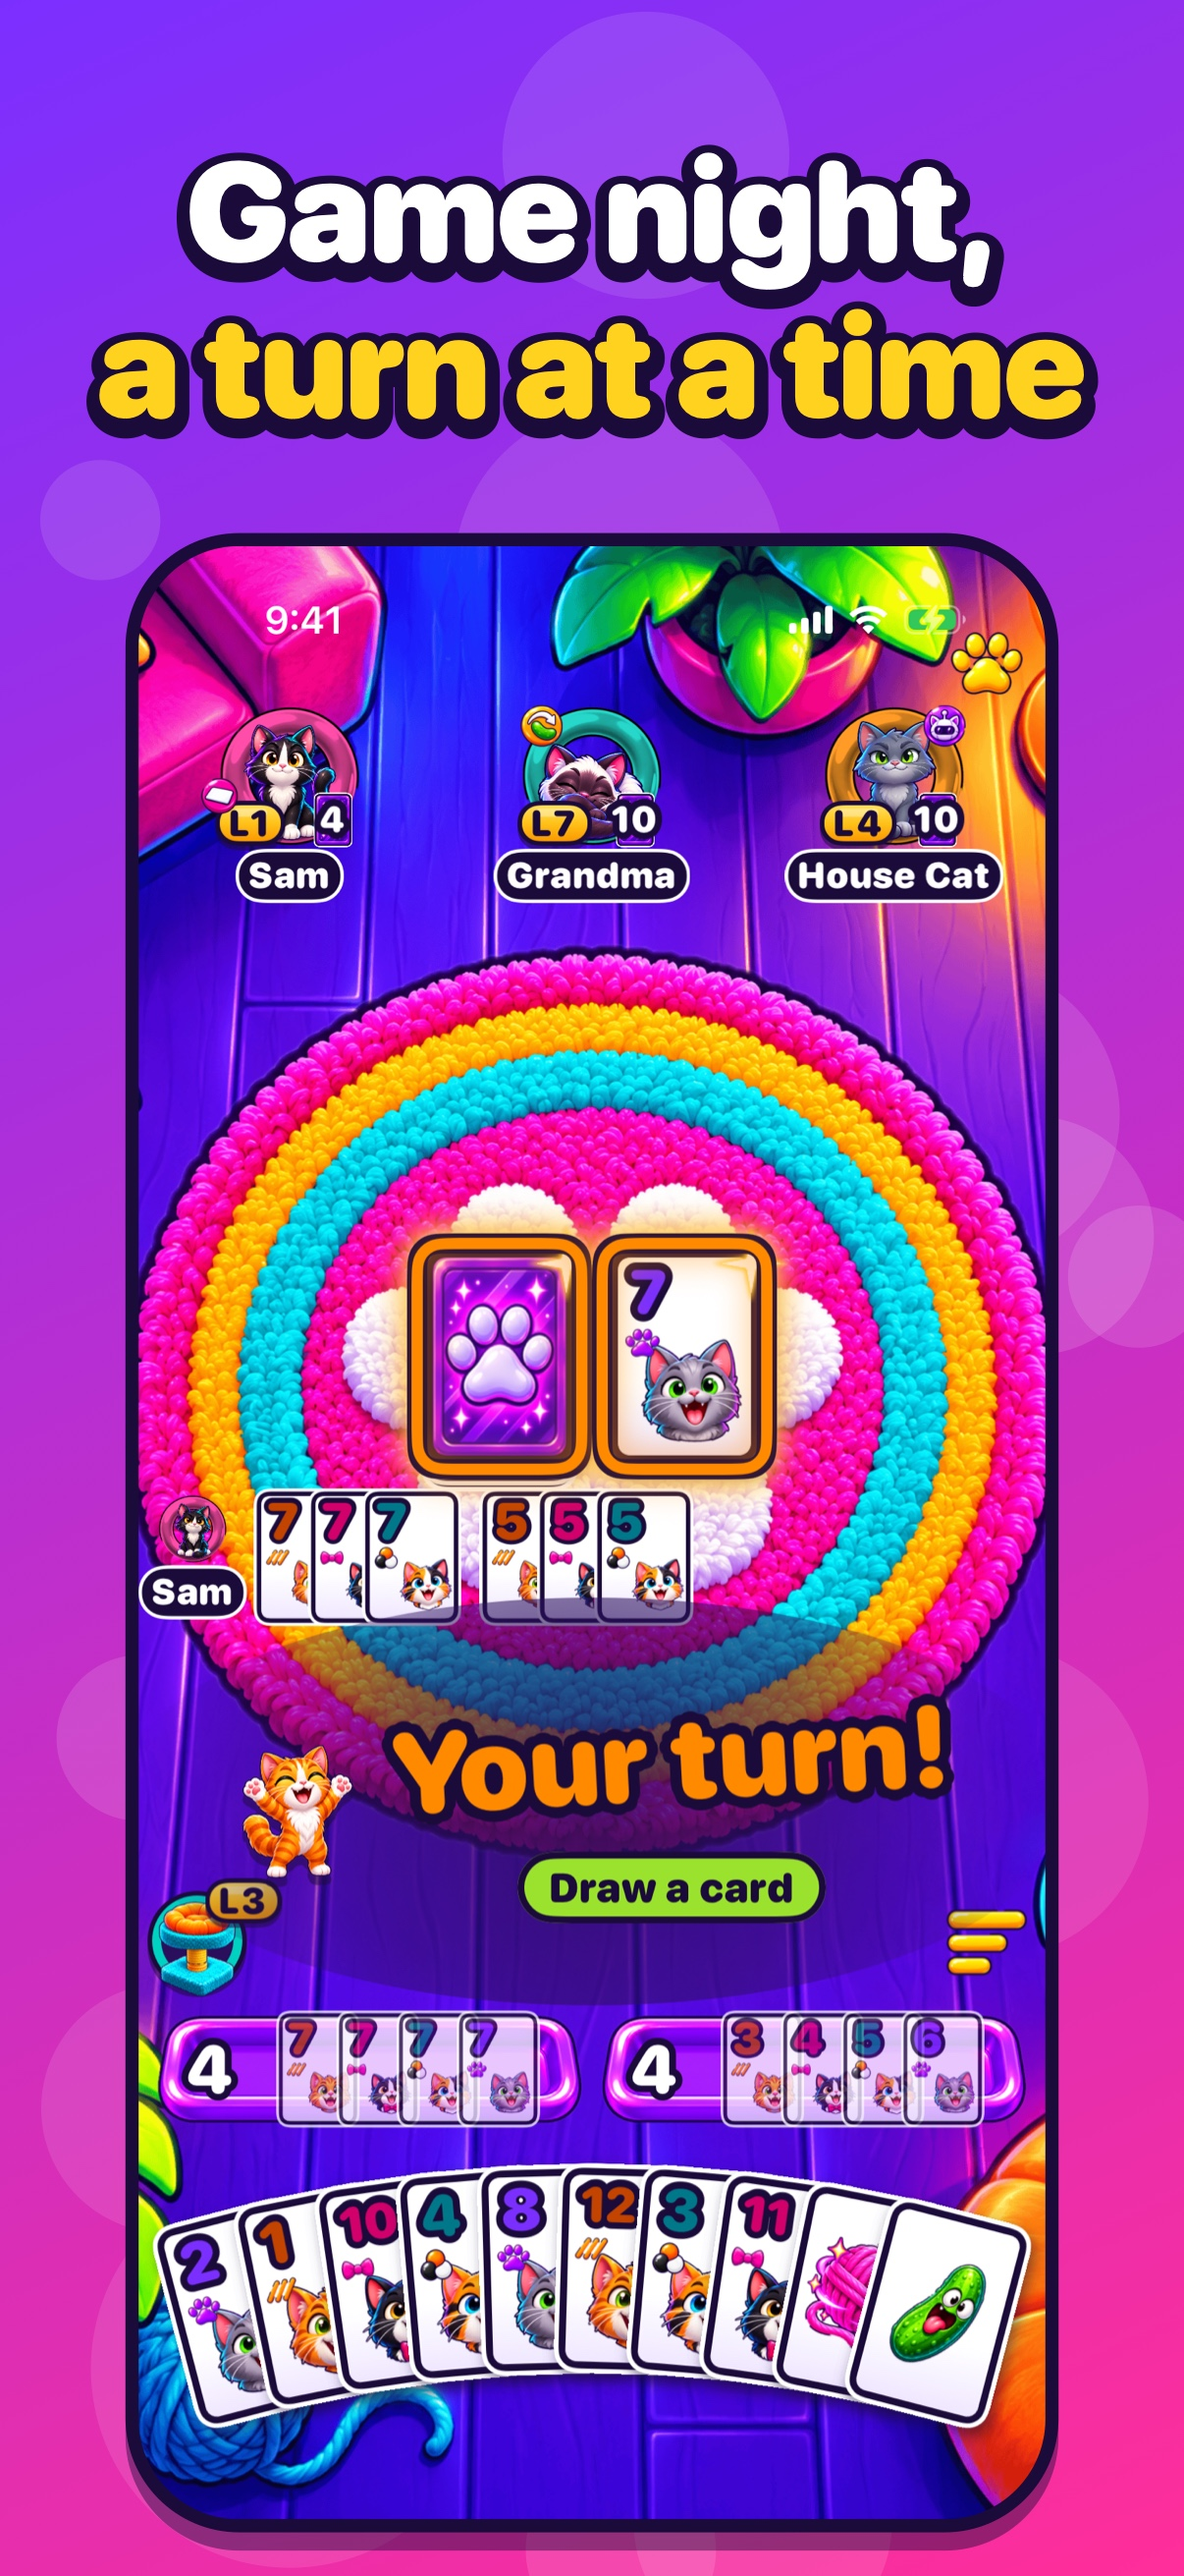
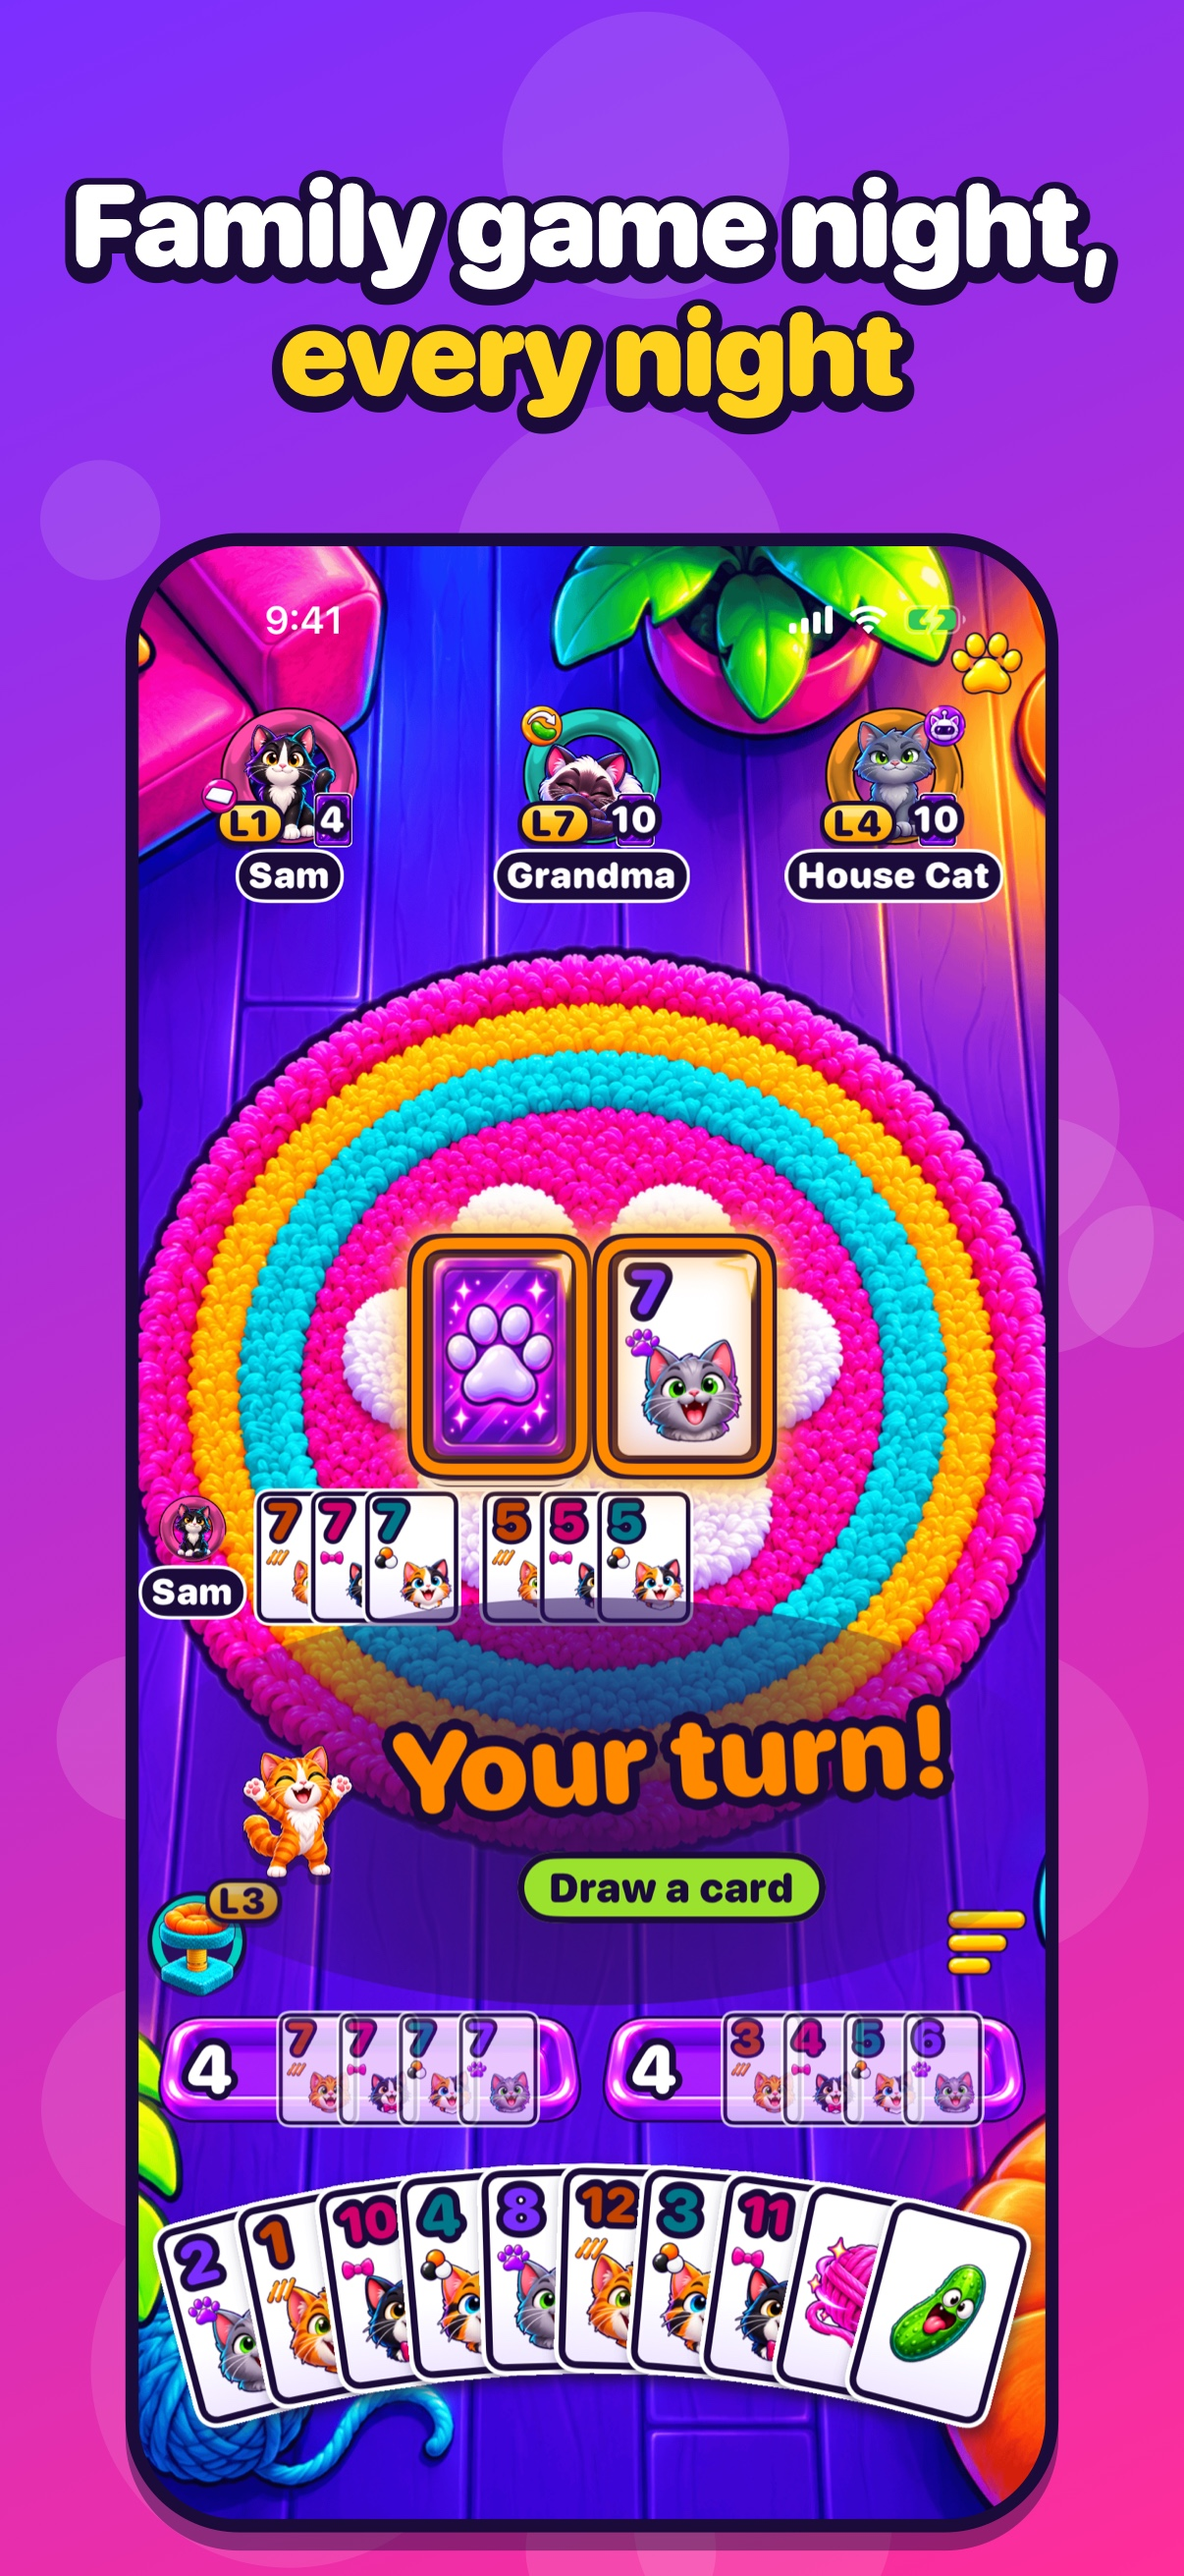
Tagline: Family game night, every night
The home page headline and description, and the caption on the first App
Store screenshot (iPhone and iPad). The site's copies of that screenshot
and the share image are rebuilt from it.

Changed region(s): [[0.0307, 0.0309, 0.9511, 0.1854]]

diff --git a/apps/play-api/src/http/home.ts b/apps/play-api/src/http/home.ts
@@ -23,7 +23,7 @@ export const HOME_CSP =
 const NAME = "Pounce: Family Games";
 const SUBTITLE = "Card game for couples and kids";
 const DESCRIPTION =
-  "Game night, one turn at a time. Play Cat Tower with your partner, your kids or the whole family, on one phone or from anywhere.";
+  "Family game night, every night. Play Cat Tower with your partner, your kids or the whole family, on one phone or from anywhere.";
 
 /** How the page offers the app: the App Store, else the TestFlight beta, else "coming soon". */
 export type InstallState = { kind: "store"; url: string } | { kind: "beta"; url: string } | { kind: "soon" };
@@ -43,7 +43,7 @@ const art = (a: Art, cls = ""): string =>
 
 /** The App Store screenshots, in upload order, with what each one shows (AppStore/captions.md). */
 const SHOTS = [
-  "Game night, a turn at a time. The Cat Tower card table on your turn, with your hand of cards fanned along the bottom.",
+  "Family game night, every night. The Cat Tower card table on your turn, with your hand of cards fanned along the bottom.",
   "Play your person. Keep the streak. A 128-day streak with one person, with two cats beside a cat tower.",
   "Room for the whole family. A lobby with five people and a House Cat bot seated around the rug, under the room code.",
   "Climb all ten levels. The scoreboard above the list of levels, each level naming the sets and runs it needs.",
@@ -237,7 +237,7 @@ function body(state: InstallState, consent: boolean): string {
 <div class="wrap hero-grid">
 <div>
 <p class="chip">${SUBTITLE}</p>
-<h1 id="top">Game night, <span>one turn at a time.</span></h1>
+<h1 id="top">Family game night, <span>every night.</span></h1>
 <p class="lede">Pounce is a card game for couples and families. Play Cat Tower on one phone or from anywhere, and take your turn when you have a minute. The game waits for everyone else.</p>
 ${install}
 </div>

diff --git a/apps/play-api/src/http/home.test.ts b/apps/play-api/src/http/home.test.ts
@@ -45,7 +45,7 @@ describe("homePage", () => {
     for (const install of [{}, { testflightUrl: TESTFLIGHT }, { appStoreUrl: APP_STORE }]) {
       const page = await html(install);
       expect(page).toContain("<title>Pounce: Family Games | Card game for couples and kids</title>");
-      expect(page).toMatch(/<h1 id="top">Game night, <span>one turn at a time\.<\/span><\/h1>/);
+      expect(page).toMatch(/<h1 id="top">Family game night, <span>every night\.<\/span><\/h1>/);
       expect(page.match(/<h1/g)).toHaveLength(1);
       expect(page).toContain("Pounce is a card game for couples and families.");
       for (const s of ["How a game works", "Play it your way", "Made with kids in mind", "Cat Tower is the first game in Pounce, with more to come."]) {
@@ -136,7 +136,7 @@ describe("homePage", () => {
     const page = await html();
     const image = `${ORIGIN}${MEDIA.og.src}`;
     for (const tag of [
-      '<meta name="description" content="Game night, one turn at a time. Play Cat Tower with your partner, your kids or the whole family, on one phone or from anywhere.">',
+      '<meta name="description" content="Family game night, every night. Play Cat Tower with your partner, your kids or the whole family, on one phone or from anywhere.">',
       `<link rel="canonical" href="${ORIGIN}/">`,
       '<link rel="apple-touch-icon" href="/apple-touch-icon.png">',
       `<link rel="icon" type="image/png" sizes="192x192" href="${MEDIA.icon192}">`,

diff --git a/apps/play-api/src/http/site-media.ts b/apps/play-api/src/http/site-media.ts
@@ -9,7 +9,7 @@ export const MEDIA = {
     "height": 40
   },
   "og": {
-    "src": "/static/og.5baaf31c68.jpg",
+    "src": "/static/og.9cce277989.jpg",
     "width": 1200,
     "height": 630
   },
@@ -27,29 +27,29 @@ export const MEDIA = {
       "height": 696,
       "webp": [
         {
-          "src": "/static/shot-1-320.d7580a1fc2.webp",
+          "src": "/static/shot-1-320.fd0966b478.webp",
           "w": 320
         },
         {
-          "src": "/static/shot-1-440.c07c49be90.webp",
+          "src": "/static/shot-1-440.51a82667c5.webp",
           "w": 440
         },
         {
-          "src": "/static/shot-1-640.eab056daf1.webp",
+          "src": "/static/shot-1-640.75350b73b2.webp",
           "w": 640
         }
       ],
       "jpg": [
         {
-          "src": "/static/shot-1-320.a8966bdd9b.jpg",
+          "src": "/static/shot-1-320.b325909f46.jpg",
           "w": 320
         },
         {
-          "src": "/static/shot-1-440.47511752f1.jpg",
+          "src": "/static/shot-1-440.0e98865b2f.jpg",
           "w": 440
         },
         {
-          "src": "/static/shot-1-640.4fc9fe5318.jpg",
+          "src": "/static/shot-1-640.528e911bd0.jpg",
           "w": 640
         }
       ]

diff --git a/apps/play-ios/AppStore/captions.md b/apps/play-ios/AppStore/captions.md
@@ -5,7 +5,7 @@ iPad (`ipad-N.jpg`). The source of truth is `captions.json`, which `compose.swif
 
 | # | Caption | Screen | What backs it |
 | --- | --- | --- | --- |
-| 1 | Game night, a turn at a time | The card table on your turn | Turn-based play; tables wait for each player's move |
+| 1 | Family game night, every night | The card table on your turn | Turn-based play: a table waits for each player's move, so a game can have a turn to take any night |
 | 2 | Play your person. Keep the streak. | The Us screen: a 128-day streak with one person | Pair streaks, gifts and the cat condo |
 | 3 | Room for the whole family | A full lobby: five people and a House Cat | Six seats; House Cat bots fill empty ones |
 | 4 | Climb all ten levels | The scoreboard with the level list | Cat Tower's ten levels |
